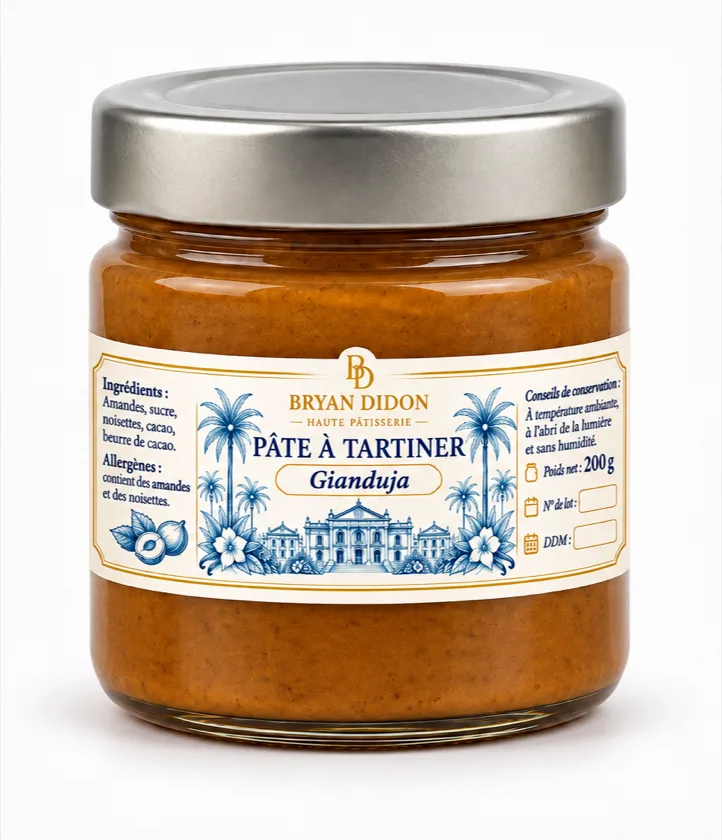
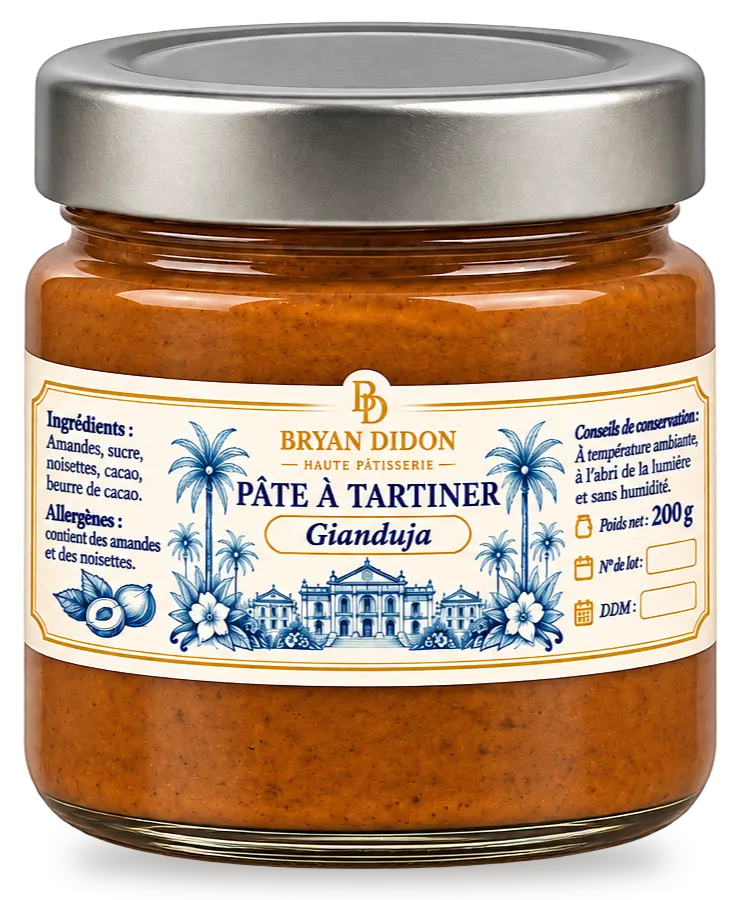
Gianduja : nouvelle photo du pot (fond transparent, ombre douce)

diff --git a/styles.css b/styles.css
@@ -492,7 +492,6 @@ p { margin: 0 0 1em; }
 .produit__photos--duo { grid-template-columns: minmax(0, 446fr) minmax(0, 606fr); align-items: end; max-width: 30rem; margin: 0 auto; }
 /* Photo sur fond blanc : le blanc se fond dans le marbre */
 .produit__photo--fond-blanc, .vitrine__media img[src*="vanille-"], .autres__carte img[src*="vanille-"],
-.vitrine__media img[src*="gianduja"], .autres__carte img[src*="gianduja"] { mix-blend-mode: multiply; filter: brightness(1.04); }
 .produit__texte { text-align: center; }
 .produit__texte .lys { margin-bottom: .9rem; }
 .produit__titre { font-size: clamp(2.1rem, 1.6rem + 2.4vw, 3.4rem); line-height: 1.08; color: var(--nuit); margin-bottom: .45em; }
@@ -573,7 +572,7 @@ p { margin: 0 0 1em; }
 }
 .maison__vignettes a:hover { background: rgba(255, 255, 255, .7); border-color: var(--or); }
 .maison__vignettes img { height: 90px; width: auto; max-width: 100%; object-fit: contain; }
-.maison__vignettes img[src*="vanille-"], .maison__vignettes img[src*="gianduja"] { mix-blend-mode: multiply; filter: brightness(1.04); }
+.maison__vignettes img[src*="vanille-"] { mix-blend-mode: multiply; filter: brightness(1.04); }
 
 /* ---------- Contact (/contact) ---------- */
 .contact { max-width: 40rem; margin: clamp(2rem, 5vw, 3.5rem) auto 0; padding: clamp(1.5rem, 4vw, 2.75rem); border: 1px solid var(--trait); background: rgba(255, 255, 255, .45); }

diff --git a/maison.html b/maison.html
@@ -126,7 +126,7 @@
         <li><a href="/galette"><img src="images/galette-entiere.webp" alt="" width="1535" height="1024" loading="lazy">La galette</a></li>
         <li><a href="/buches"><img src="images/buche-exotique.webp" alt="" width="1079" height="513" loading="lazy">Les bûches</a></li>
         <li><a href="/praline"><img src="images/pate-a-tartiner-praline-vanille.webp" alt="" width="588" height="703" loading="lazy">Le praliné</a></li>
-        <li><a href="/gianduja"><img src="images/pate-a-tartiner-gianduja.webp" alt="" width="722" height="840" loading="lazy">Le gianduja</a></li>
+        <li><a href="/gianduja"><img src="images/pate-a-tartiner-gianduja.webp" alt="" width="740" height="900" loading="lazy">Le gianduja</a></li>
         <li><a href="/vanille"><img src="images/vanille-tube.webp" alt="" width="446" height="1000" loading="lazy">La vanille</a></li>
       </ul>
       <p class="maison__action"><a class="pill pill--cta" href="/creations">Découvrir nos créations

diff --git a/creations.html b/creations.html
@@ -168,7 +168,7 @@
         </article>
         <article class="vitrine__carte" aria-labelledby="carte-gianduja" data-categorie="tartiner">
           <a class="vitrine__media" href="/gianduja" tabindex="-1" aria-hidden="true">
-            <img src="images/pate-a-tartiner-gianduja.webp" width="722" height="840" alt="Pot de pâte à tartiner gianduja Bryan Didon, 200 g" loading="lazy">
+            <img src="images/pate-a-tartiner-gianduja.webp" width="740" height="900" alt="Pot de pâte à tartiner gianduja Bryan Didon, 200 g" loading="lazy">
           </a>
           <p class="vitrine__saison">À tartiner</p>
           <h2 class="vitrine__nom" id="carte-gianduja"><a href="/gianduja">Pâte à tartiner gianduja</a></h2>

diff --git a/index.html b/index.html
@@ -210,7 +210,7 @@
           </li>
           <li class="rail__item">
             <a class="rail__carte" href="/gianduja">
-              <img class="rail__img rail__img--fond-blanc" src="images/pate-a-tartiner-gianduja.webp" width="722" height="840" alt="" loading="lazy">
+              <img class="rail__img" src="images/pate-a-tartiner-gianduja.webp" width="740" height="900" alt="" loading="lazy">
               <span class="rail__saison">À tartiner</span>
               <span class="rail__nom">Le gianduja</span>
               <span class="rail__prix">9,50&nbsp;€</span>

diff --git a/gianduja.html b/gianduja.html
@@ -92,7 +92,7 @@
 
     <article class="produit__entete" aria-labelledby="produit-titre">
       <div class="produit__media">
-        <img class="produit__photo produit__photo--pot produit__photo--fond-blanc" src="images/pate-a-tartiner-gianduja.webp" width="722" height="840"
+        <img class="produit__photo produit__photo--pot" src="images/pate-a-tartiner-gianduja.webp" width="740" height="900"
              alt="Pot de pâte à tartiner gianduja Bryan Didon, 200 g">
       </div>
       <div class="produit__texte">
